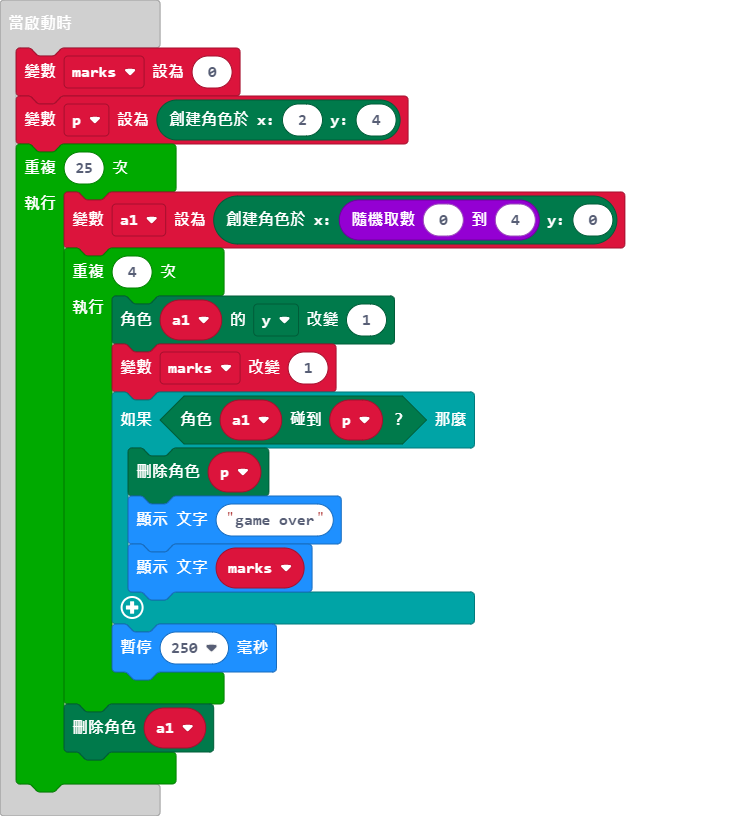
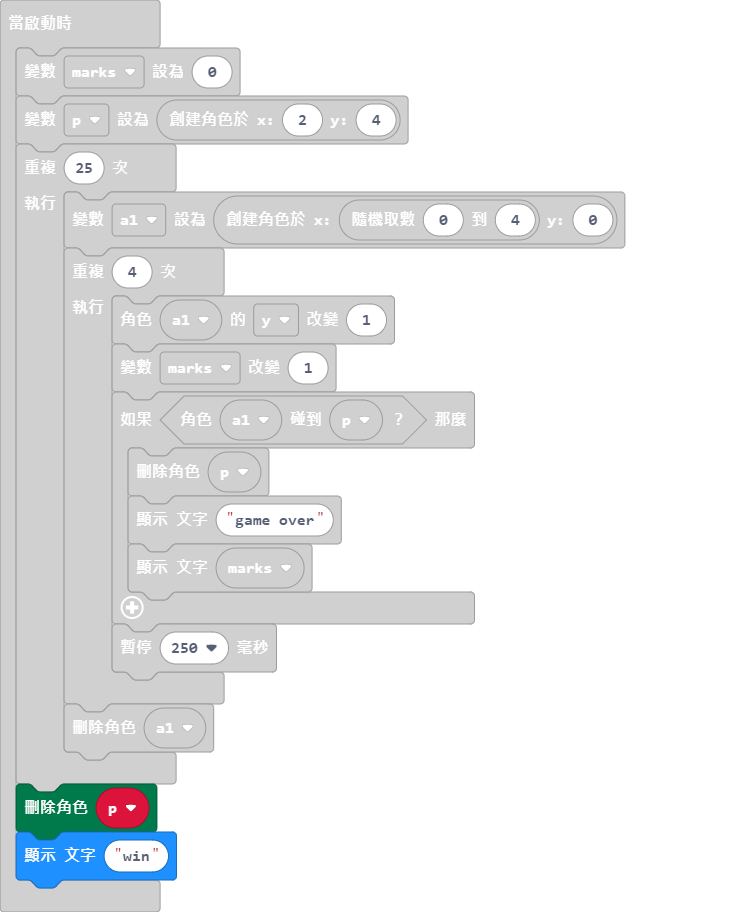
更新 main.blocks, main.ts

diff --git a/main.ts b/main.ts
@@ -22,6 +22,8 @@ for (let index = 0; index < 25; index++) {
     }
     a1.delete()
 }
+p.delete()
+basic.showString("win")
 basic.forever(function () {
     music.playMelody("D G A B C5 B C5 C5 ", 120)
     serial.writeNumber(sonar.ping(
